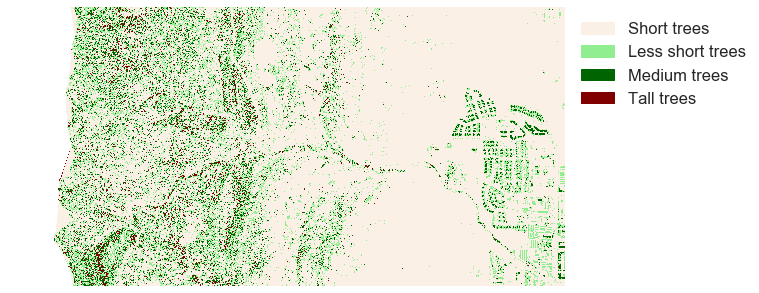
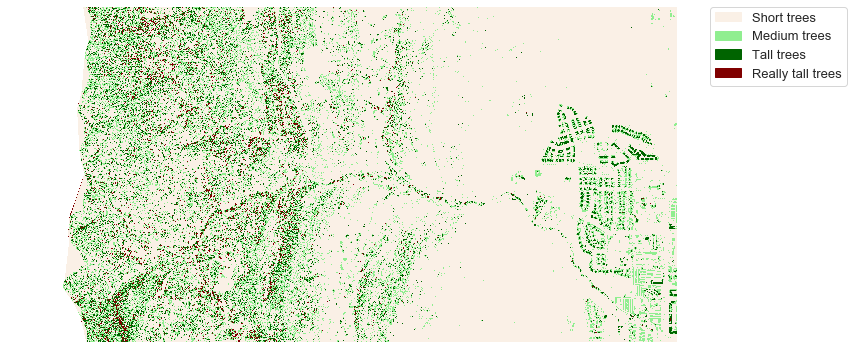
Merge pull request #494 from earthlab/ea-intermediate-raster-classify-update Update classify raster lesson in intermediate tb

diff --git a/_posts/courses/intermediate-earth-data-science-textbook/03-intro-raster/raster-processing-python/2018-02-05-raster06-classify-raster.md b/_posts/courses/intermediate-earth-data-science-textbook/03-intro-raster/raster-processing-python/2018-02-05-raster06-classify-raster.md
@@ -66,10 +66,8 @@ To get started, first load the required libraries and then open up your raster. 
 ```python
 import os
 import matplotlib.pyplot as plt
-from matplotlib.patches import Patch
 from matplotlib.colors import ListedColormap, BoundaryNorm
 import numpy as np
-import pandas as pd
 import rasterio as rio
 from rasterio.plot import plotting_extent
 import earthpy as et
@@ -83,6 +81,12 @@ sns.set(font_scale=1.5, style="whitegrid")
 et.data.get_data("colorado-flood")
 os.chdir(os.path.join(et.io.HOME, 'earth-analytics'))
 ```
+
+{:.output}
+    Downloading from https://ndownloader.figshare.com/files/16371473
+    Extracted output to /root/earth-analytics/data/colorado-flood/.
+
+
 
 
 To begin, open the `lidar_chm.tif` file that you created in the previous lesson. A copy of it is also in your outputs directory of this week's data.
@@ -558,22 +562,25 @@ plt.show()
 
 
 
-## Add Custom Legend
-The plot looks OK but the legend doesn't represent the data well. The legend is continuous - with a range between 0 and 3. However you want to plot the data using discrete bins.
+## Add a Custom Legend to Your Plot with EarthPy
 
-Finally, clean up our plot legend. Given you have discrete values you will create a CUSTOM legend with the 3 categories that you created in our classification matrix.
+The plot looks OK but the legend does not represent the data well. The legend is continuous - with a range between 1.0 and 4.0 However you want to plot the data using discrete bins.
+
+Given you have discrete values, you can create a custom legend with the four categories that you created in your classification matrix.
 
 There are a few tricky pieces to creating a custom legend.
 
-1. Notice below that you first create a list of legend items
+1. Notice below that you first create a list of legend items (or labels):
 
-`height_class_labels = ["Short trees", "Less short trees", "Medium trees","Tall trees"]`
+`height_class_labels = ["Short trees", "Less short trees", "Medium trees", "Tall trees"]`
+
 This represents the text that will appear in your legend. 
 
-2. Next you create the patches. Each path has a colored box and an associated label in your legend. 
+2. Next you create the colormap from a list of colors. 
 
-This code: `Patch(color=icolor, label=label)` defines a patch
-And this code `for icolor, label in zip(colors, height_class_labels)` loops through each color and label for your legend and combines them into a new patch object or "row" in your legend. 
+This code: `colors = ['linen', 'lightgreen', 'darkgreen', 'maroon']` creates the color list.
+
+And this code: `cmap = ListedColormap(colors)` creates the colormap to be used in the plot code.  
 
 {:.input}
 ```python
@@ -596,29 +603,22 @@ np.unique(lidar_chm_class_ma)
 {:.input}
 ```python
 # Create a list of labels to use for your legend
-height_class_labels = ["Short trees",
-                       "Less short trees", "Medium trees", "Tall trees"]
+height_class_labels = ["Short trees", "Medium trees",
+                       "Tall trees", "Really tall trees"]
 
-# A path is an object drawn by matplotlib. In this case a patch is a box draw on your legend
-# Below you create a unique path or box with a unique color - one for each of the labels above
-legend_patches = [Patch(color=icolor, label=label)
-                  for icolor, label in zip(colors, height_class_labels)]
-
+# Create a colormap from a list of colors
+colors = ['linen', 'lightgreen', 'darkgreen', 'maroon']
 cmap = ListedColormap(colors)
 
-fig, ax = plt.subplots(figsize=(10, 10))
+f, ax = plt.subplots(figsize=(12, 12))
 
-ep.plot_bands(lidar_chm_class_ma,
-              cmap=cmap,
-              ax=ax,
-              cbar=False)
+im = ax.imshow(lidar_chm_class_ma, 
+               cmap=cmap)
 
-ax.legend(handles=legend_patches,
-          facecolor="white",
-          edgecolor="white",
-          bbox_to_anchor=(1.35, 1))  # Place legend to the RIGHT of the map
-
+ep.draw_legend(im, titles=height_class_labels)
 ax.set_axis_off()
+
+plt.show()
 ```
 
 {:.output}
